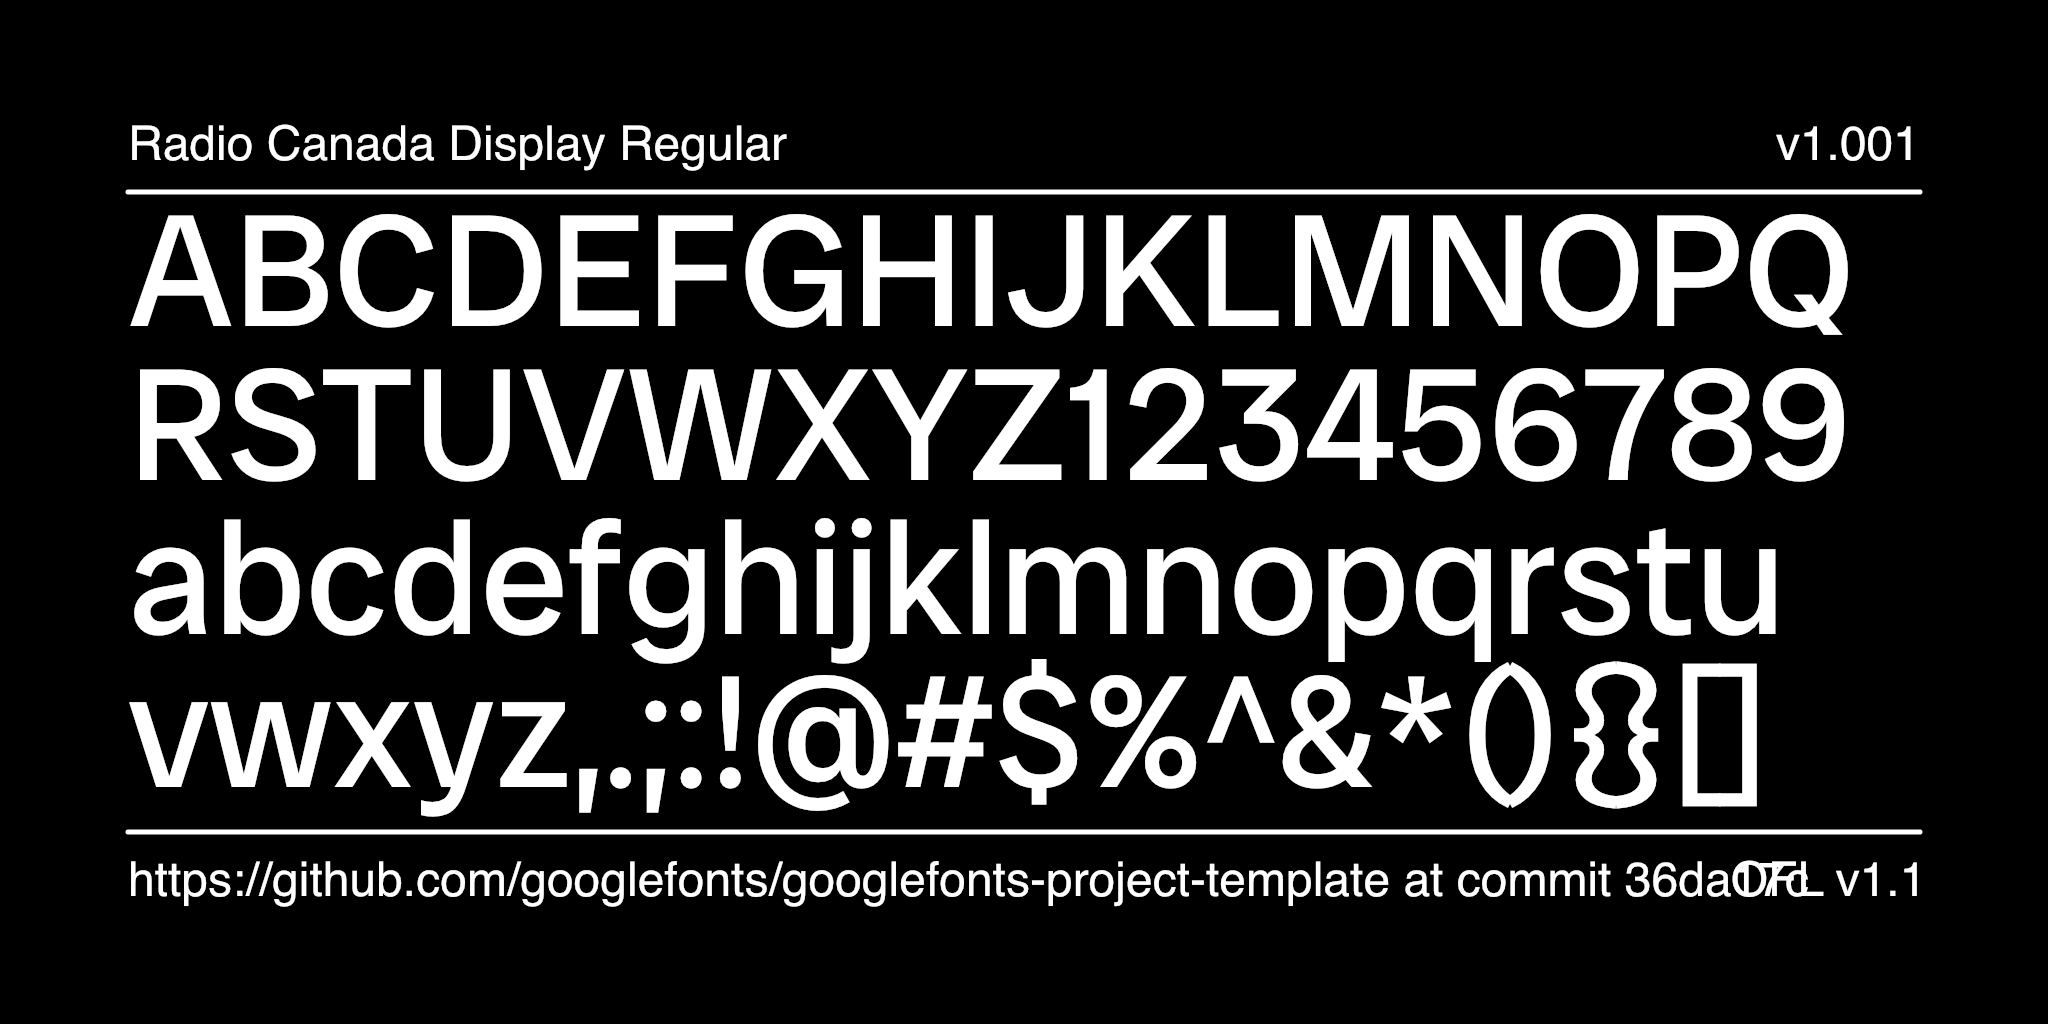
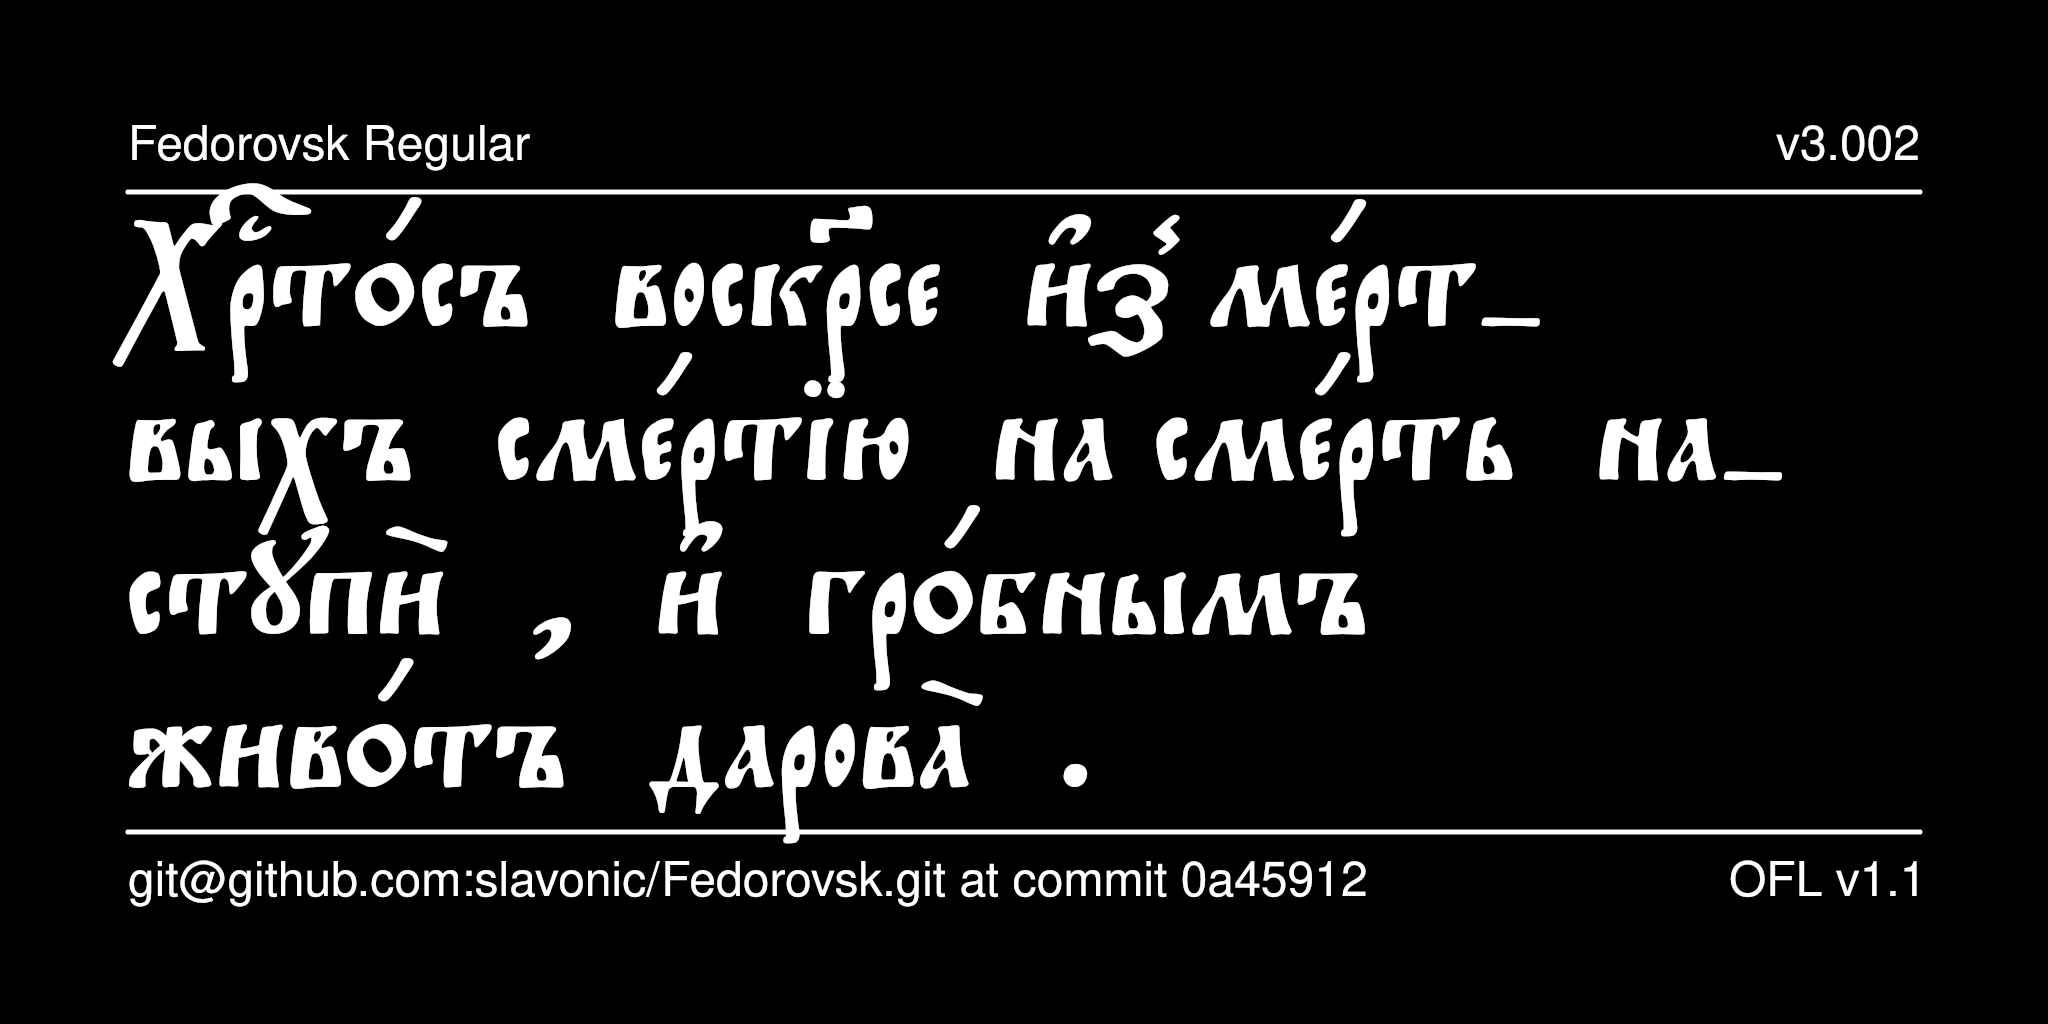
Add images

diff --git a/DESCRIPTION.en_us.html b/DESCRIPTION.en_us.html
@@ -1,0 +1,9 @@
+<p>
+    Fedorovsk is a font designed to mimic the typeface used by Ivan Fedorov, who produced some of the first printed books in Moscow in 1564. It is intended primarily for reproducing publications from the Moscow Print Yard from the late 16th to mid-17th century, either in an academic setting, or as modern Old Rite liturgical texts.
+</p>
+<p>
+    Fedorovsk was designed by Nikita Simmons in 2007. Further edited by Aleksandr Andreev and Nikita Simmons.
+</p>
+<p>
+    To contribute, please see <a href="https://github.com/slavonic/fedorovsk">github.com/slavonic/fedorovsk</a>.
+</p>

diff --git a/documentation/image2.py b/documentation/image2.py
@@ -16,15 +16,15 @@ import argparse
 
 # Constants, these are the main "settings" for the image
 WIDTH, HEIGHT, MARGIN, FRAMES = 2048, 1024, 128, 1
-FONT_PATH = "fonts/ttf/RadioCanadaDisplay-Regular.ttf"
+FONT_PATH = "fonts/otf/Fedorovsk-Regular.otf"
 FONT_LICENSE = "OFL v1.1"
 AUXILIARY_FONT = "Helvetica"
 AUXILIARY_FONT_SIZE = 48
 
-LINE_ONE = "ABCDEFGHIJKLMNOPQ"
-LINE_TWO = "RSTUVWXYZ123456789"
-LINE_THREE = "abcdefghijklmnopqrstu"
-LINE_FOUR = "vwxyz,.;:!@#$%^&*(){}[]"
+LINE_ONE = "Хрⷭ҇то́съ вᲂскр҃се и҆з̾ ме́рт_"
+LINE_TWO = "выхъ сме́ртїю на сме́рть на_"
+LINE_THREE = "стꙋпѝ , и҆ гро́бнымъ"
+LINE_FOUR = "живо́тъ дарᲂва̀ ."
 BIG_TEXT_FONT_SIZE = 160
 BIG_TEXT_SIDE_MARGIN = MARGIN * 1
 BIG_TEXT_BOTTOM_MARGIN = MARGIN * 5.45
